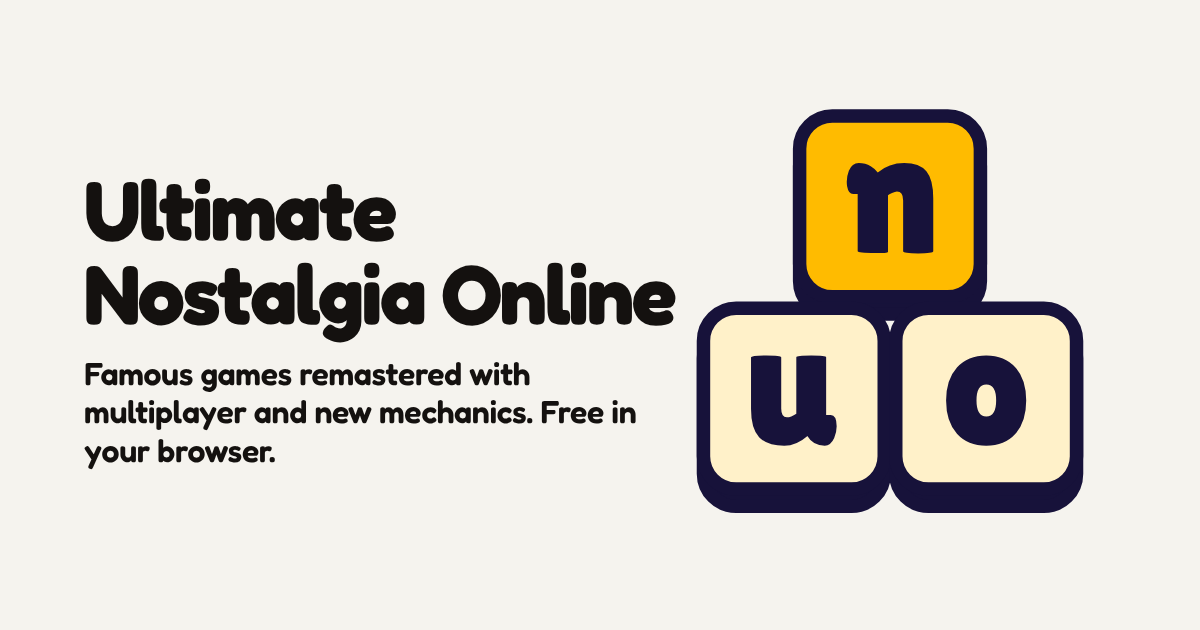
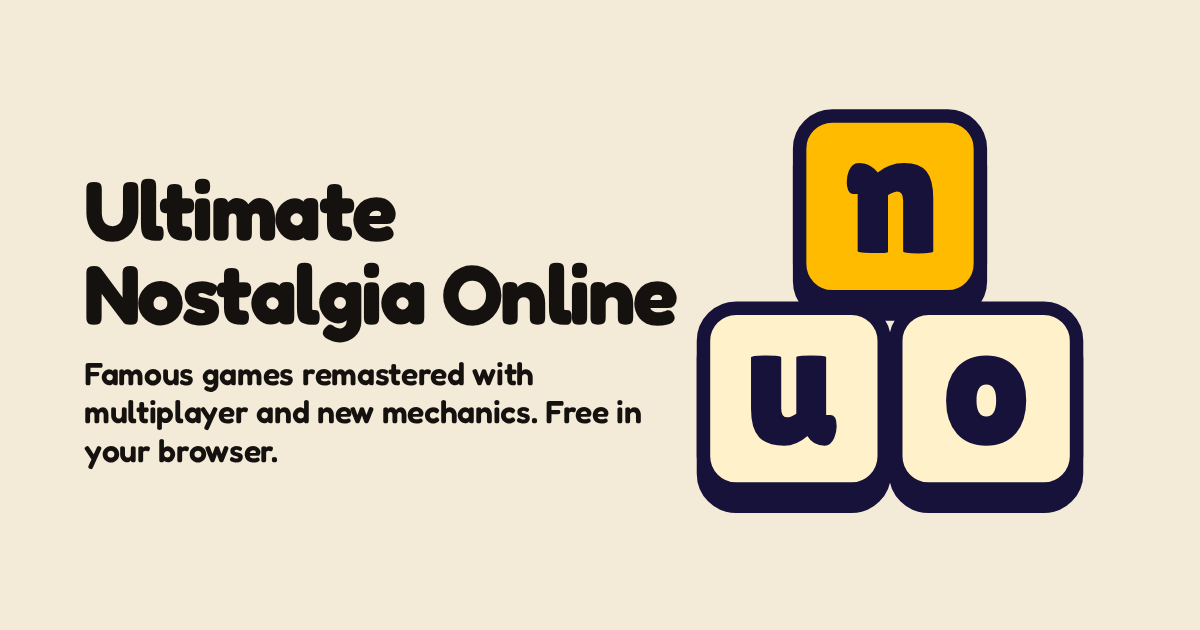
feat: beige page background and plain footer title
Claude-Session: https://claude.ai/code/session_011LV7W5LzmNhBdQPiaQsUKd

diff --git a/design/reference/og-image.html b/design/reference/og-image.html
@@ -4,7 +4,7 @@
 <link href="https://fonts.googleapis.com/css2?family=Fredoka:wght@600;700&display=swap" rel="stylesheet">
 <style>
 *{margin:0;box-sizing:border-box}
-body{width:1200px;height:630px;background:#F5F3EE;font-family:Fredoka;color:#14110F;position:relative;overflow:hidden}
+body{width:1200px;height:630px;background:#F3EAD8;font-family:Fredoka;color:#14110F;position:relative;overflow:hidden}
 svg{position:absolute;right:110px;top:50%;transform:translateY(-50%);width:400px;height:auto}
 h1{position:absolute;left:84px;top:50%;transform:translateY(-88%);width:720px;font-size:84px;line-height:1;font-weight:700;letter-spacing:-.03em}
 p{position:absolute;left:84px;top:50%;margin-top:40px;width:580px;font-size:32px;line-height:1.2;font-weight:600;letter-spacing:-.01em}

diff --git a/design/reference/social-preview.html b/design/reference/social-preview.html
@@ -4,7 +4,7 @@
 <link href="https://fonts.googleapis.com/css2?family=Fredoka:wght@600;700&display=swap" rel="stylesheet">
 <style>
 *{margin:0;box-sizing:border-box}
-body{width:1280px;height:640px;background:#F5F3EE;font-family:Fredoka;color:#14110F;position:relative;overflow:hidden}
+body{width:1280px;height:640px;background:#F3EAD8;font-family:Fredoka;color:#14110F;position:relative;overflow:hidden}
 svg{position:absolute;right:110px;top:50%;transform:translateY(-50%);width:400px;height:auto}
 h1{position:absolute;left:84px;top:50%;transform:translateY(-88%);width:720px;font-size:84px;line-height:1;font-weight:700;letter-spacing:-.03em}
 p{position:absolute;left:84px;top:50%;margin-top:40px;width:580px;font-size:32px;line-height:1.2;font-weight:600;letter-spacing:-.01em}

diff --git a/src/input.css b/src/input.css
@@ -18,7 +18,7 @@
   --font-display: "Fredoka", ui-rounded, system-ui, sans-serif;
   --font-body: "Figtree", ui-sans-serif, system-ui, sans-serif;
 
-  --color-paper: #f5f3ee;
+  --color-paper: #f3ead8;
   --color-ink: #14110f;
   --color-ink-soft: #6b6459;
   --color-zerod: #2f6fdd;

diff --git a/design/web/head-snippet.html b/design/web/head-snippet.html
@@ -2,4 +2,4 @@
 <link rel="icon" href="/favicon.svg" type="image/svg+xml">
 <link rel="apple-touch-icon" href="/apple-touch-icon.png">
 <link rel="manifest" href="/site.webmanifest">
-<meta name="theme-color" content="#F5F3EE">
+<meta name="theme-color" content="#F3EAD8">

diff --git a/docs/copy-standards.md b/docs/copy-standards.md
@@ -8,5 +8,5 @@ Text the visitor reads lives in `src/locales/<locale>.json`, in English and pt-B
 - Numbers are exact and match the game (12 players, 9 minigames, up to 8 players). If a game changes, change the text in the same pull request.
 - pt-BR is written, not translated word by word: "Pebolim 3D online", not "Futebol de mesa 3D online". Use "você", the short form of the verb and no regional slang.
 - Names are not translated: Zerod, Pebo, Ogro Party, uno.
-- The expansion is "Ultimate Nostalgia Online" in both languages, with the three initials in bold in the footer.
+- The expansion is "Ultimate Nostalgia Online" in both languages, written as plain text in the footer.
 - Alt text: decorative art has an empty `alt`; the share image has its own text in `ogImageAlt`.
